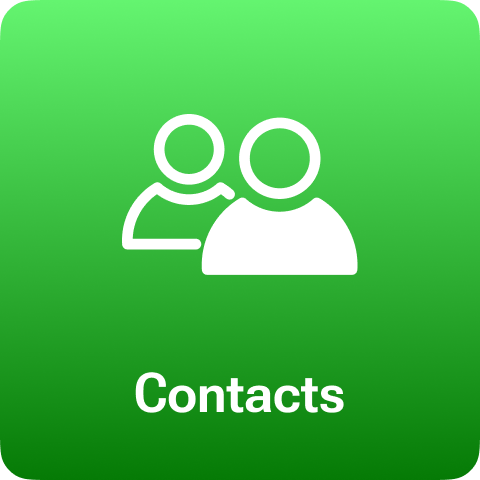
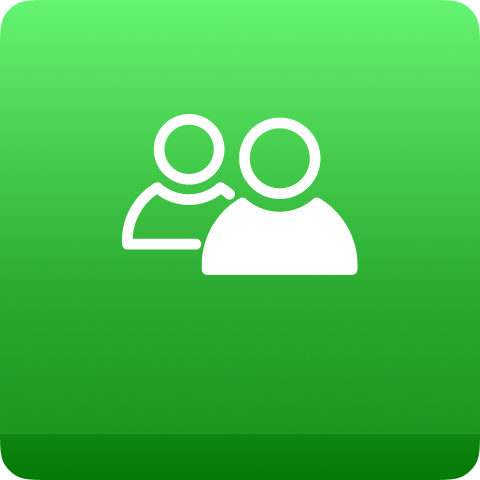
Added Translation on Main Carousel

Changed region(s): [[0.2812, 0.75, 0.7188, 0.875]]

diff --git a/menuCarousel.html b/menuCarousel.html
@@ -23,11 +23,23 @@
         en: {
           translation: {
             settings_image: "img_supportedSettingsButton_en.png",
+            smart_loft: "SmartLoft",
+            entertainment: "Entertainment",
+            contacts: "Contacts",
+            schedule: "Schedule",
+            screensaver: "ScreenSaver",
+            call_support_image: "img_CallSupport_en.png"
           },
         },
         fr: {
           translation: {
             settings_image: "img_supportedSettingsButton_fr.png",
+            smart_loft: "Loft Astucieux",
+            entertainment: "Divertissement",
+            contacts: "Contacts", // Same in French
+            schedule: "Calendrier",
+            screensaver: "Économiseur d'écran",
+            call_support_image: "img_CallSupport_fr.png"
           },
         },
       };
@@ -45,8 +57,23 @@
 
       function changeLanguage(lng) {
         i18next.changeLanguage(lng, function (err, t) {
-          document.getElementById("settings_button").src =
-            i18next.t("settings_image");
+          document.getElementById("settings_button").src = i18next.t("settings_image");
+          document.querySelectorAll('.slide1 .tranding-slide-content .tranding-slide-content-bottom p').forEach(function(el) {
+            el.innerHTML = i18next.t("smart_loft");
+          });
+          document.querySelectorAll('.slide2 .tranding-slide-content .tranding-slide-content-bottom p').forEach(function(el) {
+            el.innerHTML = i18next.t("entertainment");
+          });
+          document.querySelectorAll('.slide3 .tranding-slide-content .tranding-slide-content-bottom p').forEach(function(el) {
+            el.innerHTML = i18next.t("schedule");
+          });
+          document.querySelectorAll('.slide4 .tranding-slide-content .tranding-slide-content-bottom p').forEach(function(el) {
+            el.innerHTML = i18next.t("screensaver");
+          });
+          document.querySelectorAll('.slide5 .tranding-slide-content .tranding-slide-content-bottom p').forEach(function(el) {
+            el.innerHTML = i18next.t("contacts");
+          });
+          document.getElementById("emergency-call").setAttribute('src', i18next.t("call_support_image"));
           if (curLanguage == "en") {
             curLanguage = "fr";
           } else {
@@ -125,9 +152,8 @@
         <div class="swiper-wrapper">
           <!-- Slide-start -->
           <div
-            class="swiper-slide tranding-slide"
-            onclick="window.location.href='smartLoftCarousel.html';"
-          >
+            class="swiper-slide tranding-slide slide1"
+            onclick="window.location.href='smartLoftCarousel.html';">
             <div class="tranding-slide-img">
               <img src="img_smartLoft.png" alt="SmartLoft-logo" />
             </div>
@@ -140,7 +166,7 @@
           <!-- Slide-end -->
           <!-- Slide-start -->
           <div
-            class="swiper-slide tranding-slide"
+            class="swiper-slide tranding-slide slide2"
             onclick="window.location.href='entertainment.html';"
           >
             <div class="tranding-slide-img">
@@ -155,7 +181,7 @@
           <!-- Slide-end -->
           <!-- Slide-start -->
           <div
-            class="swiper-slide tranding-slide"
+            class="swiper-slide tranding-slide slide3"
             onclick="window.location.href='schedule.html';"
           >
             <div class="tranding-slide-img">
@@ -174,7 +200,7 @@
           <!-- Slide-end -->
           <!-- Slide-start -->
           <div
-            class="swiper-slide tranding-slide"
+            class="swiper-slide tranding-slide slide4"
             onclick="window.location.href='welcome1.html';"
           >
             <div class="tranding-slide-img">
@@ -189,7 +215,7 @@
           <!-- Slide-end -->
           <!-- Slide-start -->
           <div
-            class="swiper-slide tranding-slide"
+            class="swiper-slide tranding-slide slide5"
             onclick="window.location.href='contacts.html';"
           >
             <div class="tranding-slide-img">

diff --git a/menuCarousel.css b/menuCarousel.css
@@ -157,6 +157,9 @@ body {
 
 
 .tranding-slide .tranding-slide-content {
+  display: flex;
+  justify-content: center;
+  align-items: center;
   position: absolute;
   left: 0;
   top: 0;
@@ -172,12 +175,18 @@ body {
 }
 
 .tranding-slide-content .tranding-slide-content-bottom {
-  display: flex;
   position: absolute;
-  bottom: 2rem;
-  left: 2rem;
+  bottom: 4rem; /* Adjust this value as needed */
+  left: 0;
+  right: 0;
   color: var(--white);
-  align-items: center;
+  text-align: center; /* Center text horizontally */
+}
+
+.tranding-slide-content .tranding-slide-content-bottom p {
+  font-family: roboto;
+  font-weight: 800;
+  font-size: 42px;
 }
 
 .food-rating {
